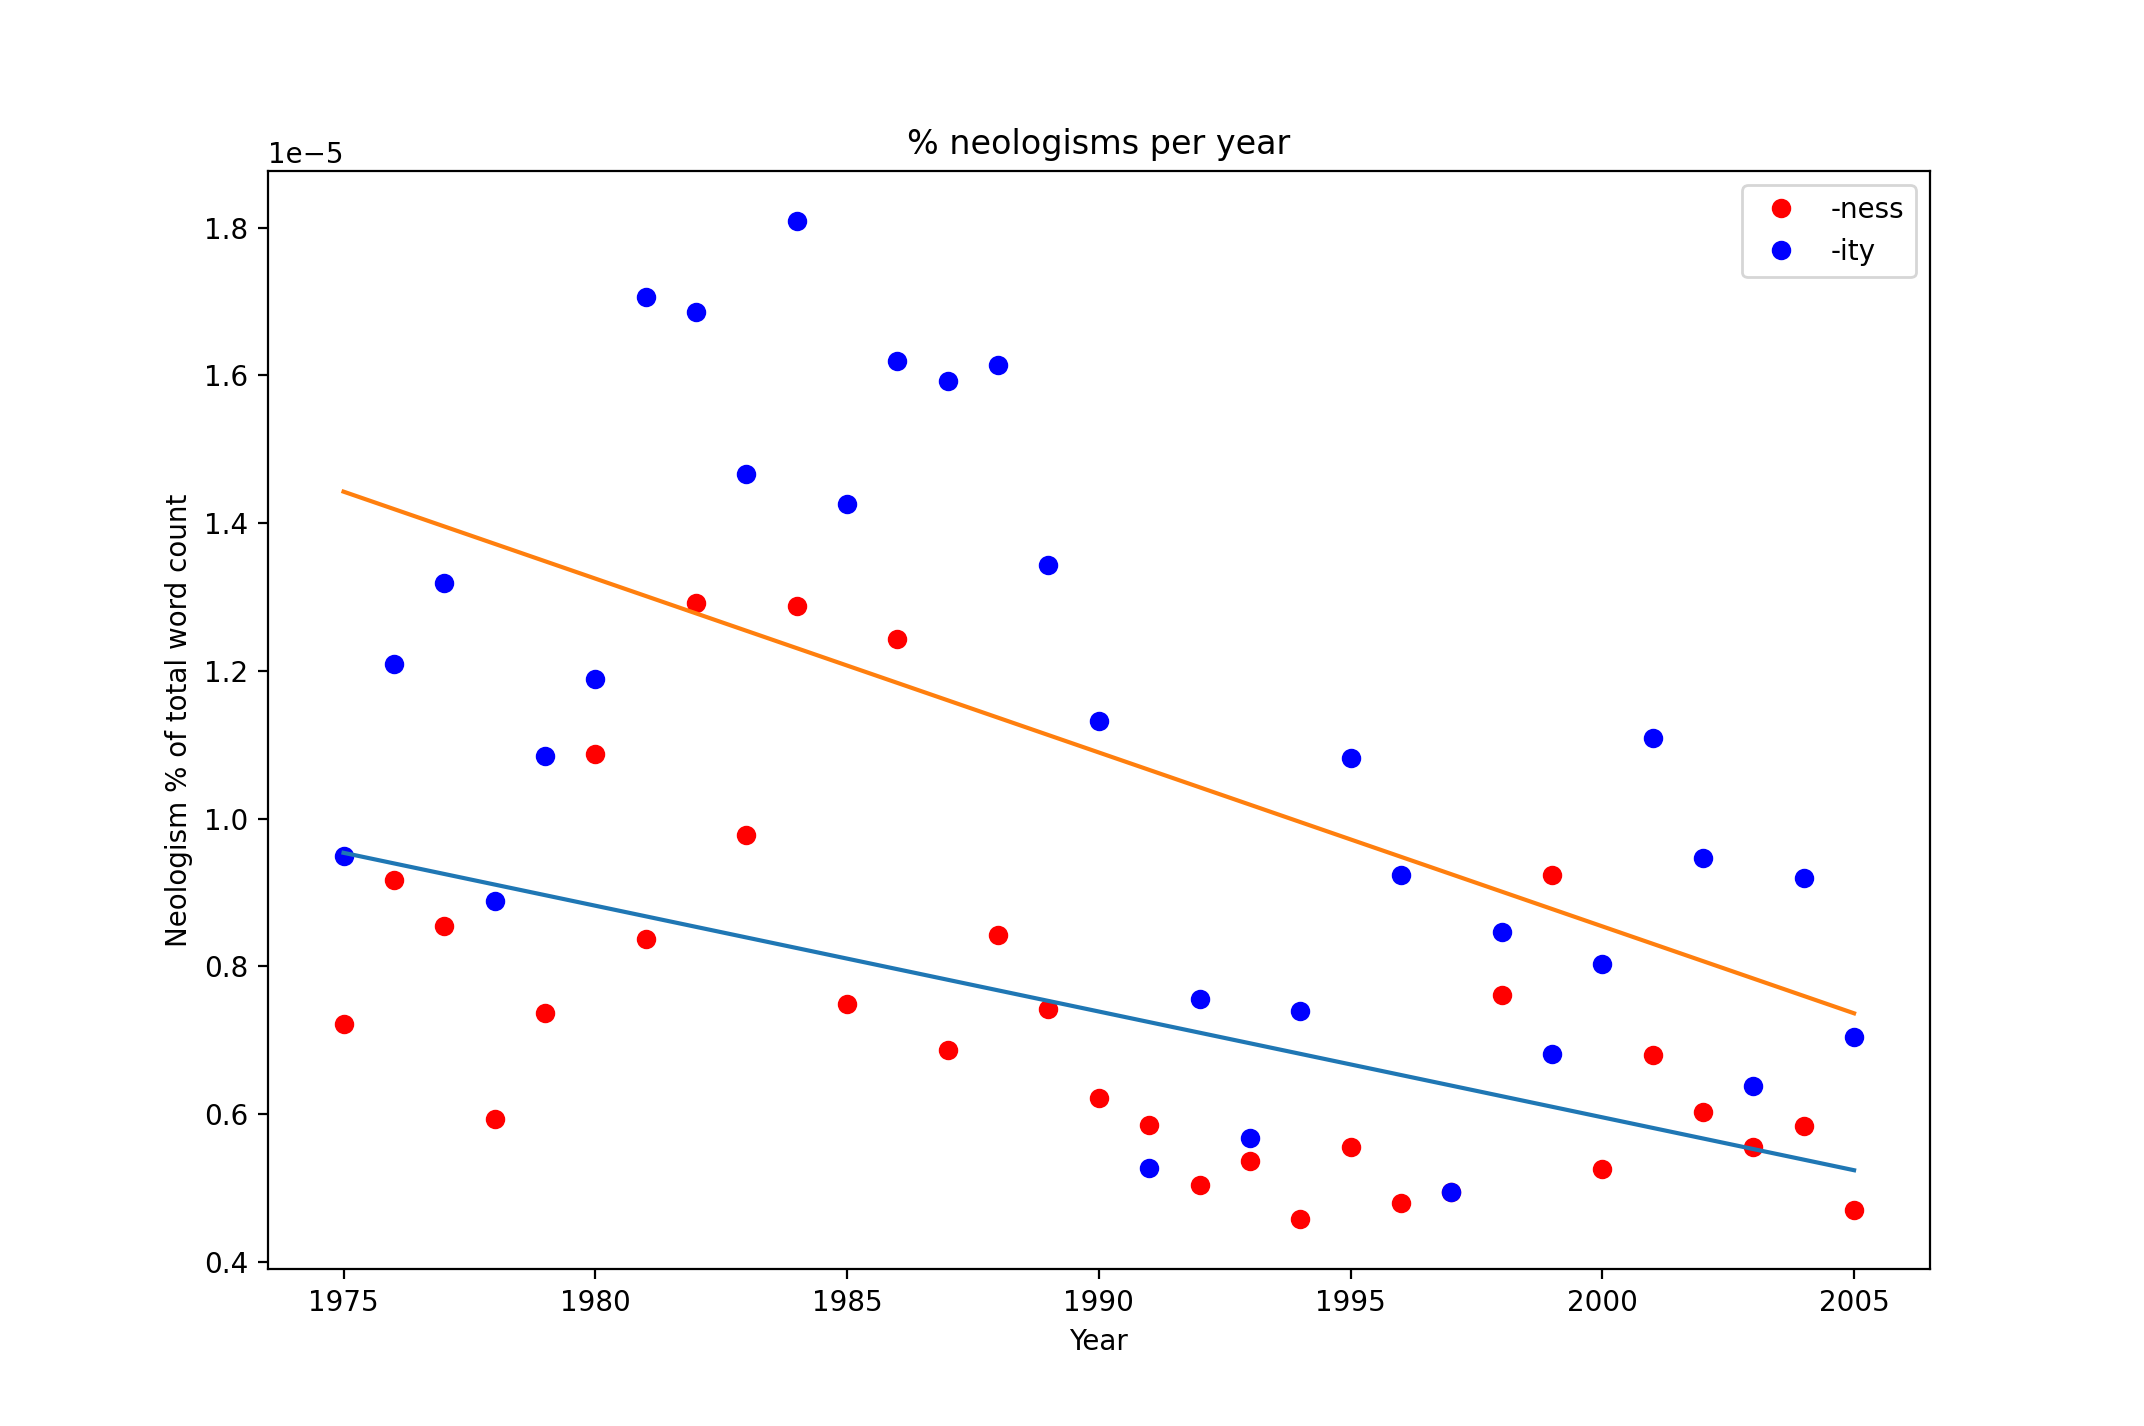
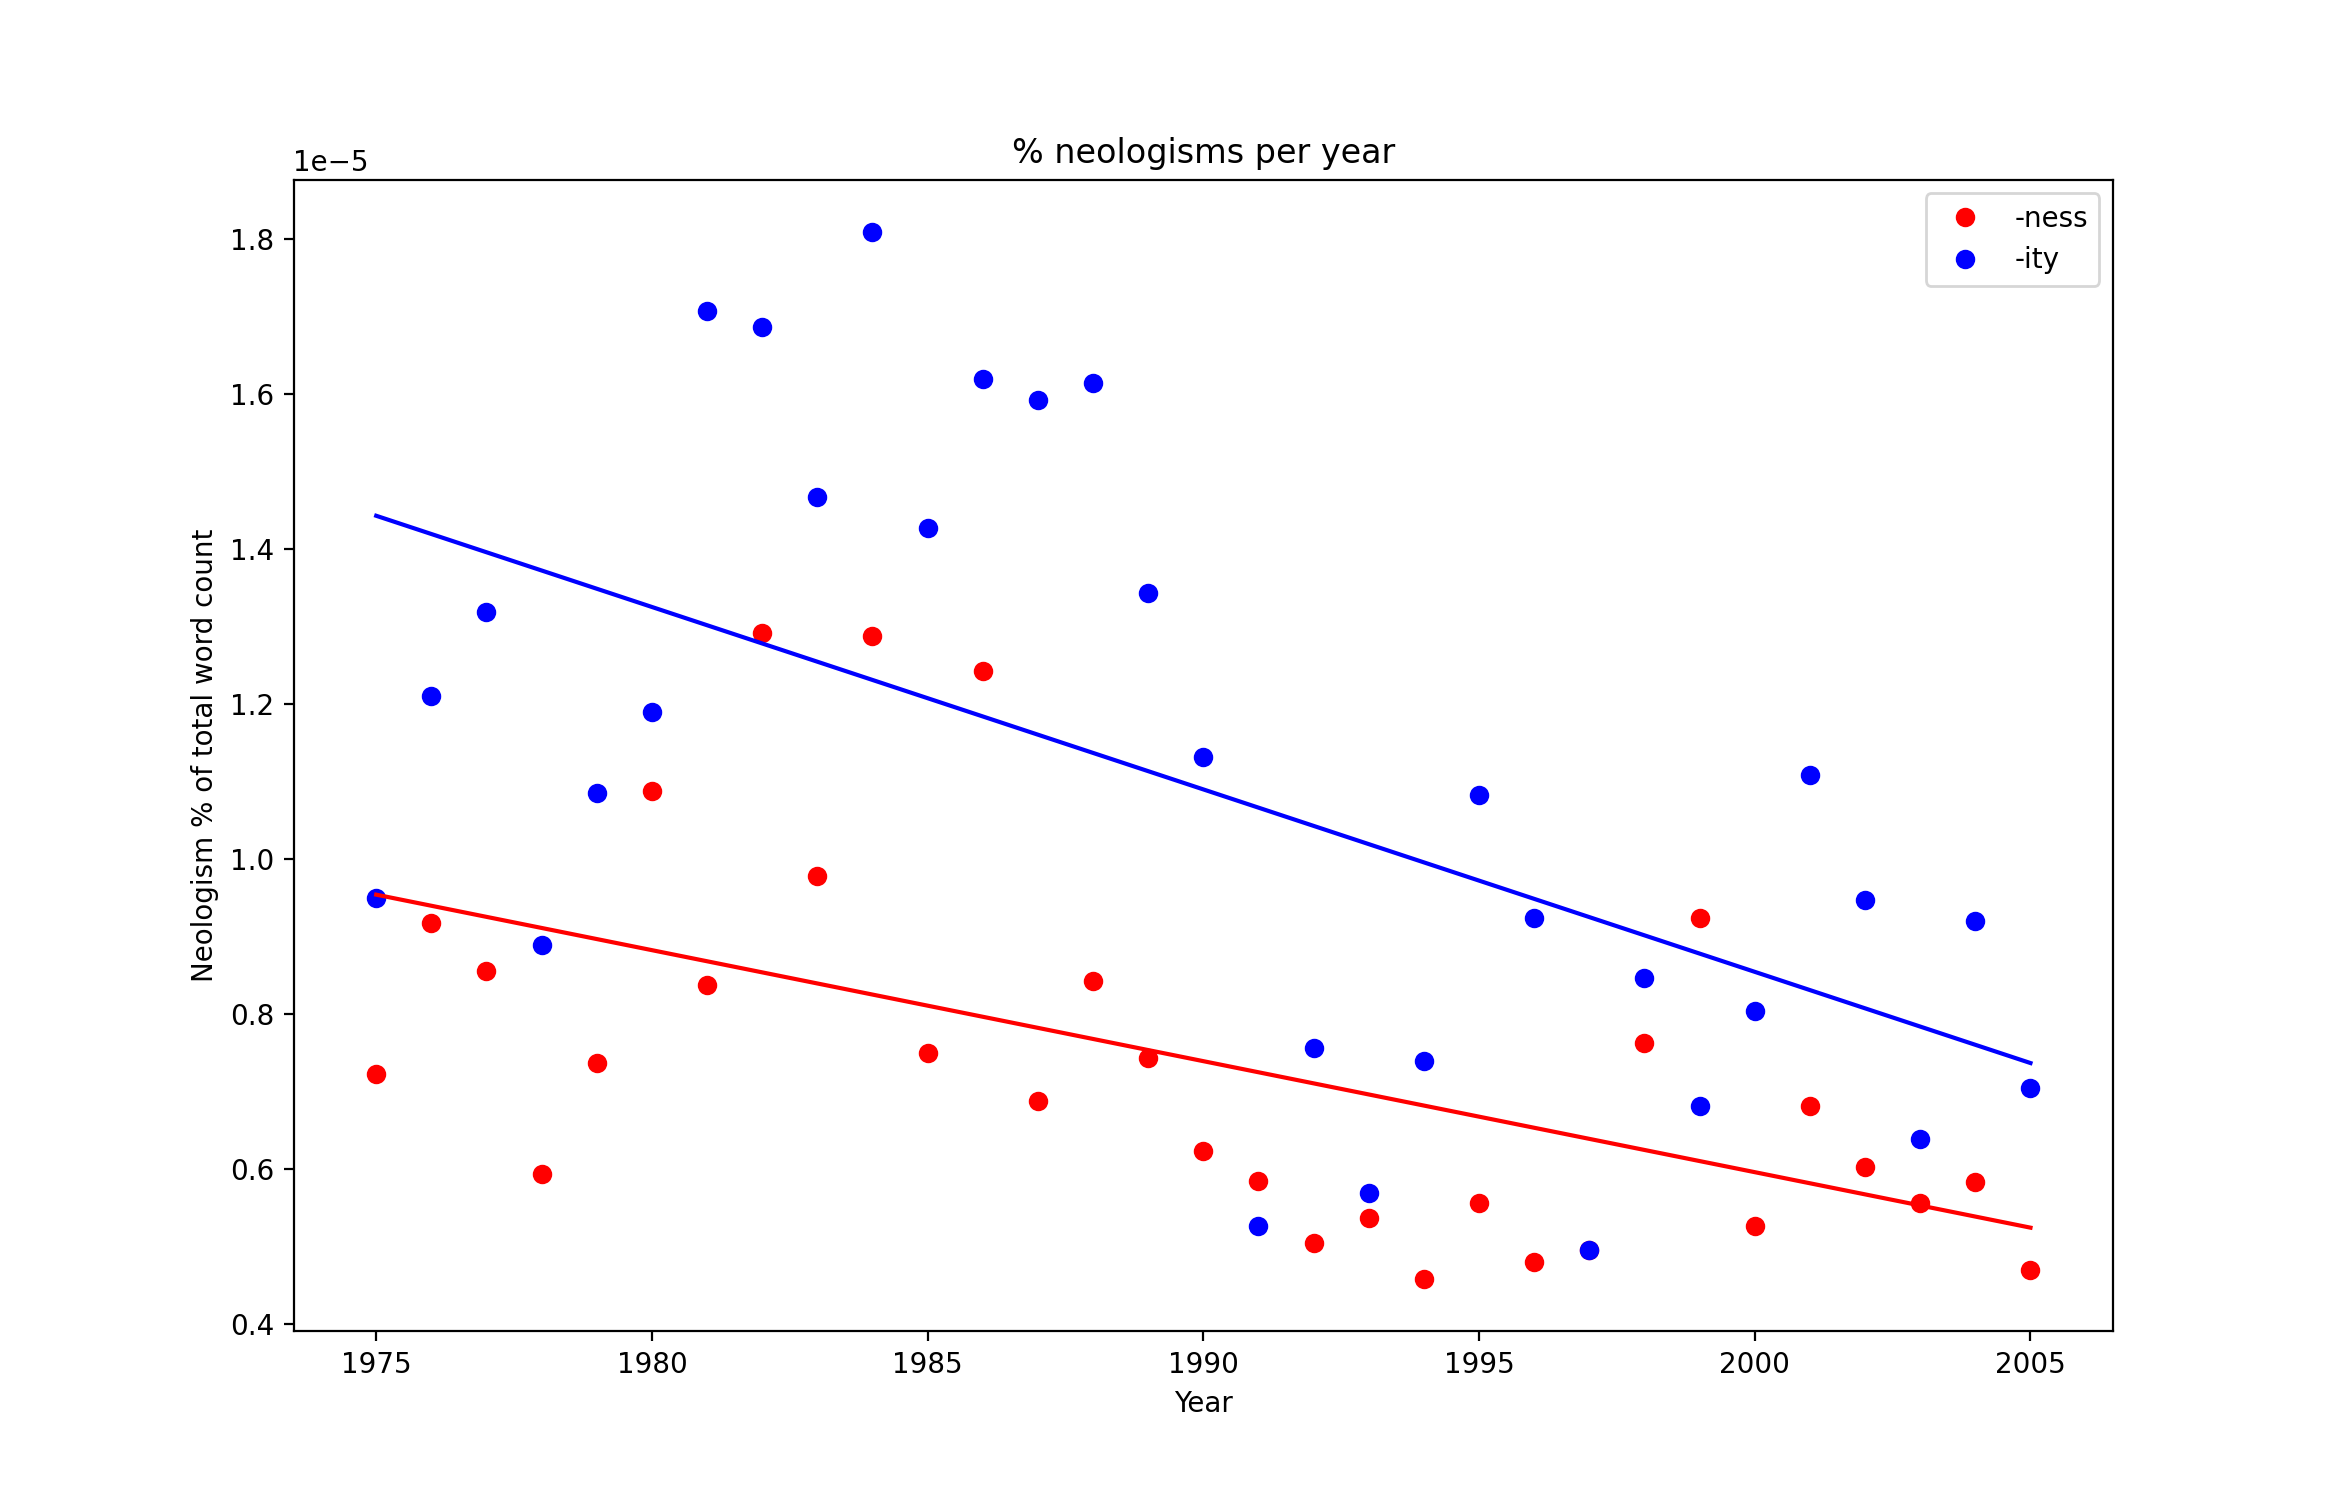
Coordinate line colors

diff --git a/plot_data.py b/plot_data.py
@@ -27,8 +27,8 @@ slope2, b2 = np.polyfit(years, ity_percent_neologisms, 1)
 
 plt.plot(years, ness_percent_neologisms, 'ro')
 plt.plot(years, ity_percent_neologisms, 'bo')
-plt.plot(years, (years*slope1 + b1))
-plt.plot(years, (years*slope2 + b2))
+plt.plot(years, (years*slope1 + b1), 'red')
+plt.plot(years, (years*slope2 + b2), 'blue')
 plt.legend(['-ness', '-ity'])
 plt.title('% neologisms per year')
 plt.xlabel('Year')
